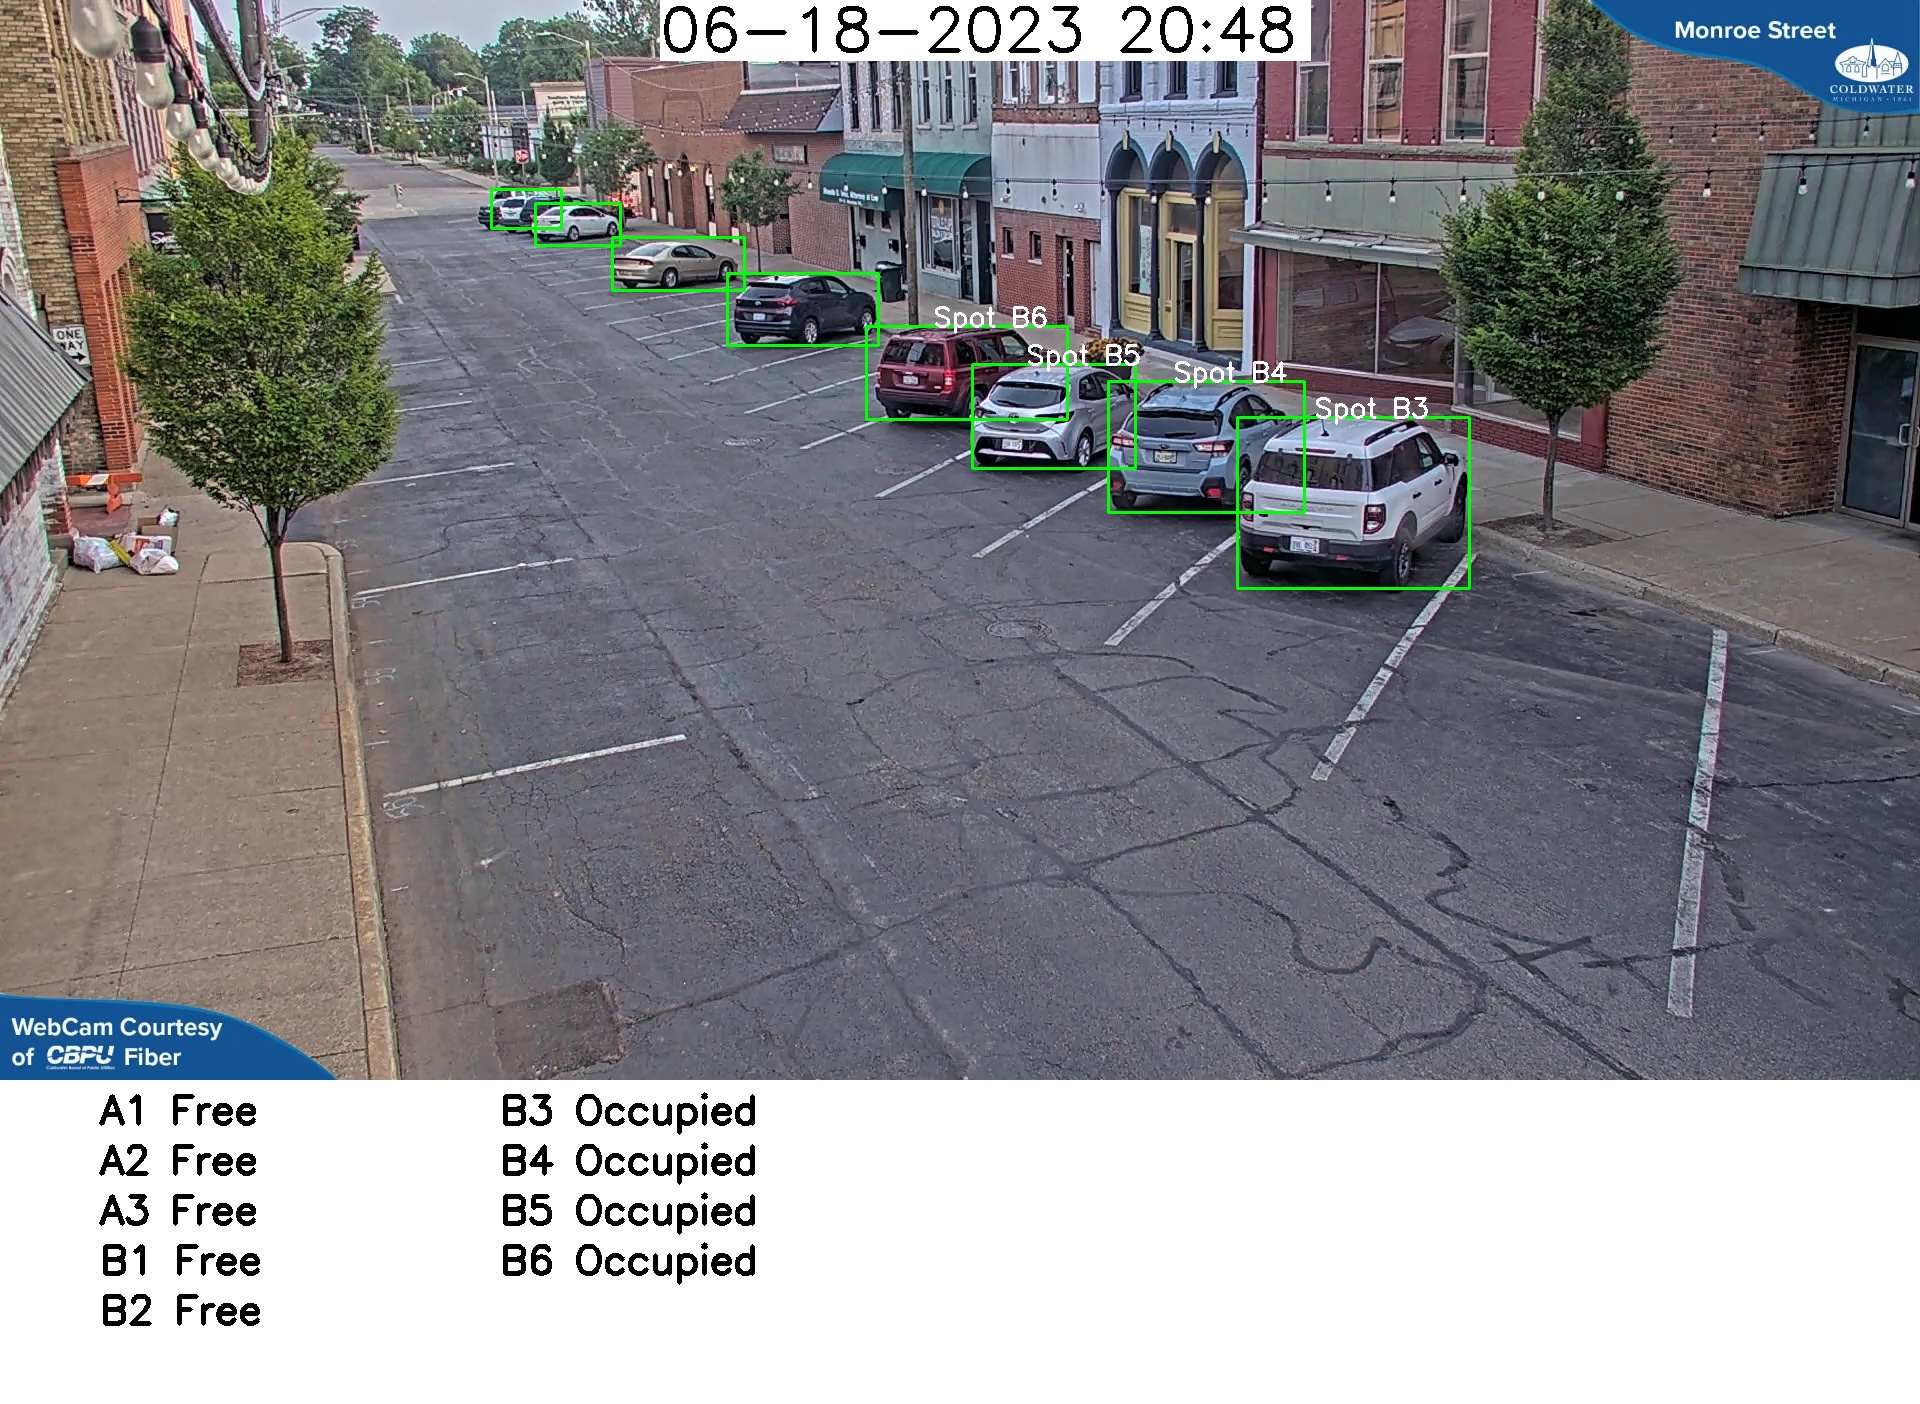
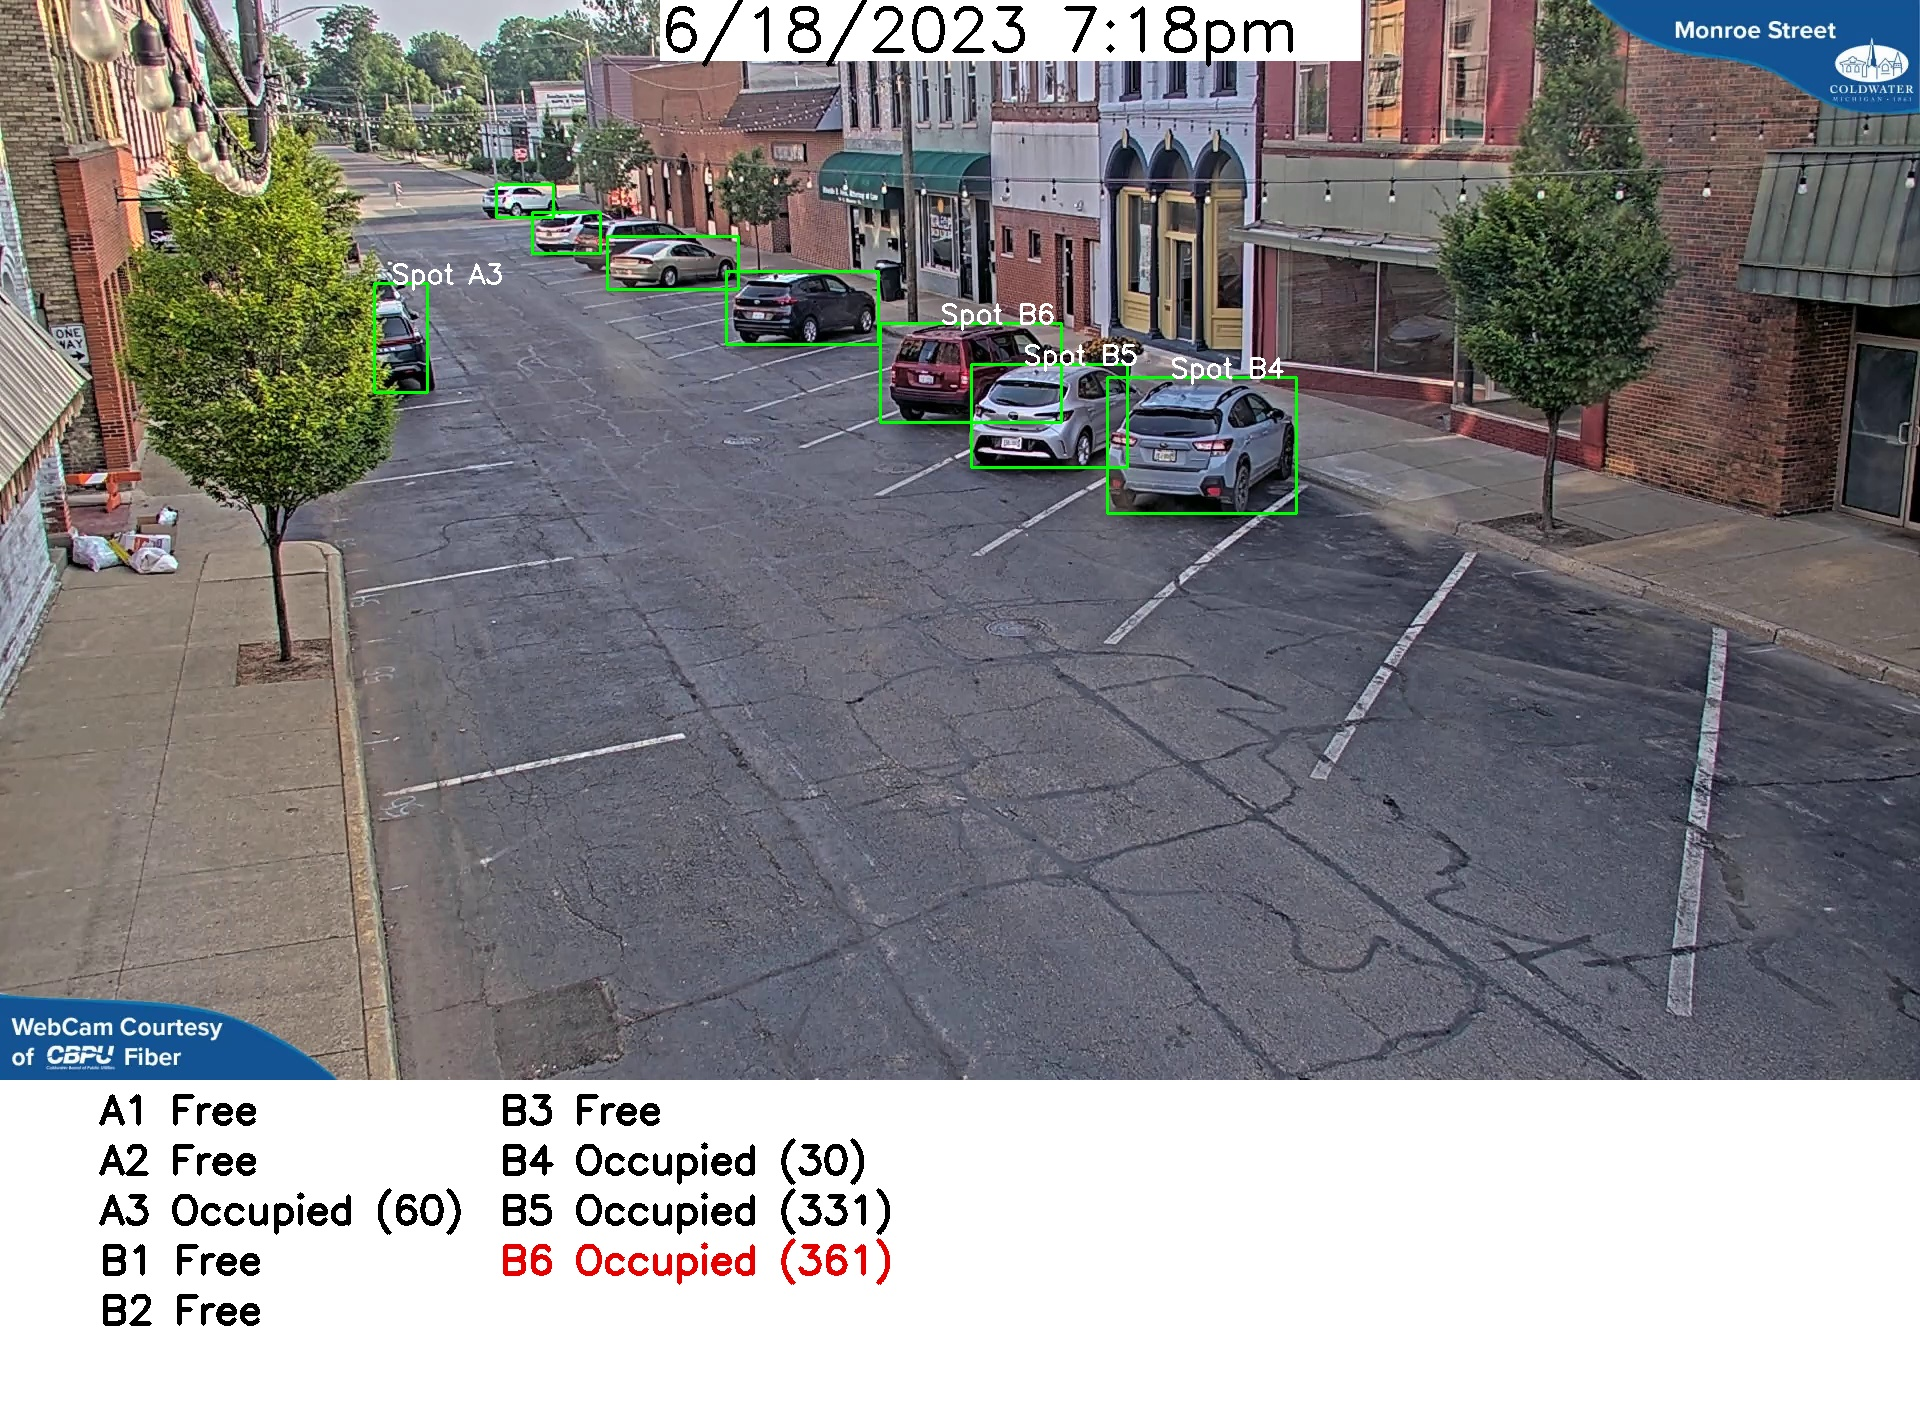
Now tracks time parked in (), marks red for possible overparking

diff --git a/core_scripts/process_all.py b/core_scripts/process_all.py
@@ -4,7 +4,37 @@ import os
 import json
 from datetime import datetime
 
-# Load Yolo
+def process_time(filename):
+    date_str = filename.split('_')[1].split('.jpg')[0]
+    ret = {}
+    ret['year'] = int(date_str[0:4])
+    ret['month'] = int(date_str[4:6])
+    ret['day'] = int(date_str[6:8])
+    ret['hour'] = int(date_str[8:10])
+    ret['min'] = int(date_str[10:12])
+
+    # An absolute time which can always be subtracted from any other time to get minute difference
+    ret['abs_time'] = ((ret['year']-2023)*525600) + (ret['month']*43800) + (ret['day']*1440) + (ret['hour'] *60) + ret['min']
+
+    # Makes a human readable time accessible through returned dictionary
+    human_time = ''
+    if ret['hour'] == 0 : human_time = '12'
+    elif ret['hour'] > 12 : human_time = str(ret['hour'] - 12)
+    else : human_time = str(ret['hour'])
+    human_time = human_time + ':' + str(ret['min'])
+    if ret['hour'] > 12 : human_time = human_time + 'pm'
+    else : human_time = human_time + 'am'
+    ret['human_time'] = human_time
+
+    # A string so a programmer can see all data clearly
+    ret['debug'] = filename + ' -> ' + str(ret['month']) + '/' + str(ret['month']) + '/' +  str(ret['year']) + ' ' + human_time
+    
+    return ret
+
+# Load Yolo (External files not included in Git since too big; available to download at these address)
+# yolov3.weights - https://pjreddie.com/media/files/yolov3.weights
+# yolov3.cfg - https://github.com/pjreddie/darknet/blob/master/cfg/yolov3.cfg
+
 net = cv2.dnn.readNet("../../ml_data/yolov3.weights", "../../ml_data/yolov3.cfg")
 layer_names = net.getLayerNames()
 output_layers = [layer_names[i - 1] for i in net.getUnconnectedOutLayers().flatten()]
@@ -27,11 +57,14 @@ parking_spots = {
     'B6': [877, 1056, 325, 428],
 }
 
+# Keeps track of how long spots occupied in real time
+spots_min_occupied = {key: 0 for key in parking_spots} 
+
 # Minimum intersection area to be considered as parked in the spot
 min_intersection = 0.5
 
 # Define the overparking limit in hours
-overparking_limit = 1
+overparking_limit = 360
 
 # Initialize the 'overparking' dictionary to store when each spot was last seen occupied
 overparking = {spot: None for spot in parking_spots.keys()}
@@ -49,12 +82,21 @@ def calculate_intersection(x1, y1, w1, h1, x2, y2, w2, h2):
 lot_data = {}
 
 # Process each image
-for input_file in input_files:
+for file_num, input_file in enumerate(input_files):
+    # Computes time since last picture taken for overparking tracking
+    abs_time = process_time(input_file)['abs_time']
+    previous_abs_time = -1
+    if file_num > 0: previous_abs_time = process_time(input_files[file_num - 1])['abs_time']
+    if previous_abs_time != -1:
+        abs_diff =  abs_time - previous_abs_time
+    else:
+        abs_diff = 0
+    print(process_time(input_file)['debug'])
+    print(str(file_num) + '. ' + str(previous_abs_time)  + ' - ' + str(abs_time) + ' = ' + str(abs_diff))
     # Load image
     frame = cv2.imread(input_folder + input_file)
     height, width, channels = frame.shape
 
-    print('\nFilename: ' + input_file)
     # Add white space at the bottom
     bottom_padding = int(height * 0.3)
     frame = cv2.copyMakeBorder(frame, 0, bottom_padding, 0, 0, cv2.BORDER_CONSTANT, value=[255, 255, 255])
@@ -64,15 +106,10 @@ for input_file in input_files:
     lot_data[input_file] = []
 
     # Extract date and time from the filename and add to the image
-    date_str = input_file[12:16] + "-" + input_file[16:18] + "-" + input_file[18:20]
-    date_str2 =   input_file[16:18] + "-" + input_file[18:20] + "-" + input_file[12:16]
-    time_str = input_file[20:22] + ":" + input_file[22:24]
-    datetime_str = date_str + " " + time_str
-    cv2.rectangle(frame, (width // 2 - 300, 0), (width // 2 + 350, 50+10), (255,255,255), -1)
-    cv2.putText(frame, (date_str2 + " " + time_str), (width // 2 - 300, 50), cv2.FONT_HERSHEY_SIMPLEX, 2, (0,0,0),3)
-
-    datetime_obj = datetime.strptime(datetime_str, '%Y-%m-%d %H:%M')
-
+    time_dict = process_time(input_file)
+    datetime_str = str(time_dict['month']) + '/' + str(time_dict['day']) + '/' +  str(time_dict['year']) + ' ' + time_dict['human_time'] 
+    cv2.rectangle(frame, (width // 2 - 300, 0), (width // 2 + 400, 50+10), (255,255,255), -1)
+    cv2.putText(frame, (datetime_str), (width // 2 - 300, 50), cv2.FONT_HERSHEY_SIMPLEX, 2, (0,0,0),3)
     # Detecting objects
     blob = cv2.dnn.blobFromImage(frame, 0.00392, (416, 416), (0, 0, 0), True, crop=False)
     net.setInput(blob)
@@ -131,42 +168,31 @@ for input_file in input_files:
                     'box': [x, y, w, h],
                     'spot': max_spot,
                 })
-    # # Write occupied and unoccupied spots
-    # y_offset = 200
-    # num_spots = len(parking_spots)
-    # spots_per_column = 5
-    # x_offset = 50
-    # col_dist = 250
-
-    # for i, spot in enumerate(reversed(list(parking_spots.keys()))):
-    #     # Increase the divisor to 4 for 4 columns and multiply the offset by 3 to position the columns further apart
-    #     column_offset = ((i // spots_per_column) * col_dist) - x_offset
-    #     row_offset = (i % spots_per_column) * 50
-    #     print('\n Spot ' + str(spot))
-    #     if spot in occupied_spots:
-    #         cv2.putText(frame, f'{spot} Occupied', (10 + column_offset, height - y_offset - row_offset), cv2.FONT_HERSHEY_SIMPLEX, 1.3, (0,0,0), 2)
-    #     else:
-    #         cv2.putText(frame, f'{spot} Free', (10 + column_offset, height - y_offset - row_offset), cv2.FONT_HERSHEY_SIMPLEX, 1.3, (0,0,0), 2)
-
-    # # Save the output image
-    # cv2.imwrite(output_folder + input_file, frame)
 
     # Write occupied and unoccupied spots
     num_spots = len(parking_spots)
     spots_per_column = 5
     space_between_rows = 50
     space_between_columns = 400
+    text_color = (0,0,0)
 
     for i, spot in enumerate(parking_spots.keys()):
         spot_status = "Free"
         if spot in occupied_spots:
             spot_status = 'Occupied'
+            spots_min_occupied[spot] += abs_diff
+            spot_status += ' (' + str(spots_min_occupied[spot]) + ')'
+            if spots_min_occupied[spot] > overparking_limit:
+                text_color = (0, 0, 230)
+        else:
+            spots_min_occupied[spot] = 0
 
         occupied_height = round(height * 0.8) + ((i % spots_per_column) * space_between_rows)
         occupied_width = 100 + ((i // spots_per_column) * space_between_columns)
 
-        cv2.putText(frame, f'{spot} {spot_status}', (occupied_width, occupied_height), cv2.FONT_HERSHEY_SIMPLEX, 1.3, (0,0,0), 3)
+        cv2.putText(frame, f'{spot} {spot_status}', (occupied_width, occupied_height), cv2.FONT_HERSHEY_SIMPLEX, 1.3, text_color, 3)
 
+    print(str(spots_min_occupied))
     # Save the output image
     cv2.imwrite(output_folder + input_file, frame)
 
